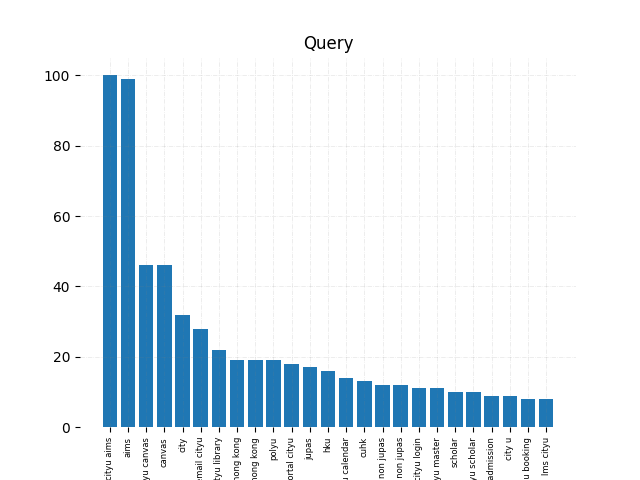
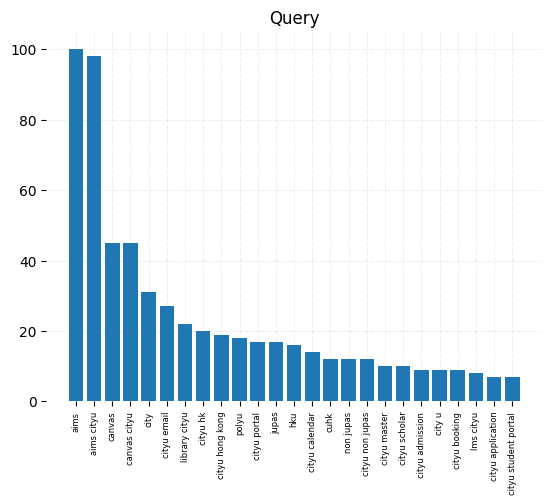
updated error alert and fixed chart image issue

diff --git a/templates/home.html b/templates/home.html
@@ -32,6 +32,12 @@
   {% if keyword %}
   <h3 id="keywordValue" class="keyword_result">Keyword results for {{keyword}}</h3>
   {% endif %} 
+  {% if keyword and not data_list %}
+  <div class="alert alert-warning" role="alert">
+    <p class="text-center my-2">No results found for the given keyword and type.</p>
+    </div>
+  {% endif %}
+  {% if data_list %}
   <table id="searchResultsTable" class="table table-striped">
     <thead>
       <tr class="searchResultColumn">
@@ -59,15 +65,15 @@
       {% endfor %}
     </tbody>
   </table>
-  {% if image_filename %}
-  <h4>Chart Image</h4>
-  <img src="{{ url_for('static', filename=image_filename[7:]) }}" />
+    {% if image_filename %}
+    <h4>Chart Image</h4>
+    <img src="{{ url_for('static', filename=image_filename[7:]) }}" />
   <h5>Download the chart</h5>
   <p>
     <a href="{{url_for('static', filename=image_filename[7:])}}">Download</a>
   </p>
-  {% endif %} 
+    {% endif %} 
+  {% endif %}
 </div>
-
 
 {% endblock %}

diff --git a/serp_api.py b/serp_api.py
@@ -53,10 +53,11 @@ def fetch_data(keyword,type):
             df_gp = df_gp.reset_index()
             df_gp.rename(columns={"location_in_short": "continent"}, inplace=True)
             df_gp.rename(columns={"value": "continent_value"}, inplace=True)
+            df_gp = df_gp[df_gp['continent_value'] >= 1]
             plt.pie(df_gp['continent_value'], labels=df_gp['continent'],
-                    autopct='%1.1f%%', startangle=0, pctdistance=0.85)
+                    autopct='%1.1f%%', startangle=0, pctdistance=0.65)
             image_filename = f'static/img/{keyword}_region.png'
-            plt.savefig(image_filename)
+            plt.savefig(image_filename,bbox_inches='tight')
             data_list.append({"image_filename": image_filename})
             plt.close()
             #plt.show()             
@@ -82,7 +83,7 @@ def fetch_data(keyword,type):
             ax.set_title('Query',
                          loc='center', )
             image_filename = f'static/img/{keyword}_queries.png'
-            plt.savefig(image_filename)
+            plt.savefig(image_filename,bbox_inches='tight')
             data_list.append({"image_filename": image_filename})
             plt.close()
             #print('Queries: ',data_list)    
@@ -108,7 +109,7 @@ def fetch_data(keyword,type):
             plt.pie(df_gp['value'], labels=df_gp['title'],
                     autopct='%1.1f%%', startangle=0)
             image_filename = f'static/img/{keyword}_topics.png'    
-            plt.savefig(image_filename)
+            plt.savefig(image_filename,bbox_inches='tight')
             data_list.append({"image_filename": image_filename})
             plt.close()
             #plt.show()

diff --git a/app.py b/app.py
@@ -18,8 +18,9 @@ def home():
 @app.route('/<keyword>/<type>', methods=['GET', 'POST'])
 def keyword_search(keyword,type):
     if request.method == 'POST':
-        return redirect(url_for('keyword_search', keyword=keyword, type=type))
+        return redirect(url_for('keyword_search', keyword=keyword, type=type))     
     data_list = fetch_data(keyword,type)
+    print('empytDataList: ',not data_list)
     image_filename = ''
     if len(data_list) > 0:
         image_filename = data_list[-1].get("image_filename")
